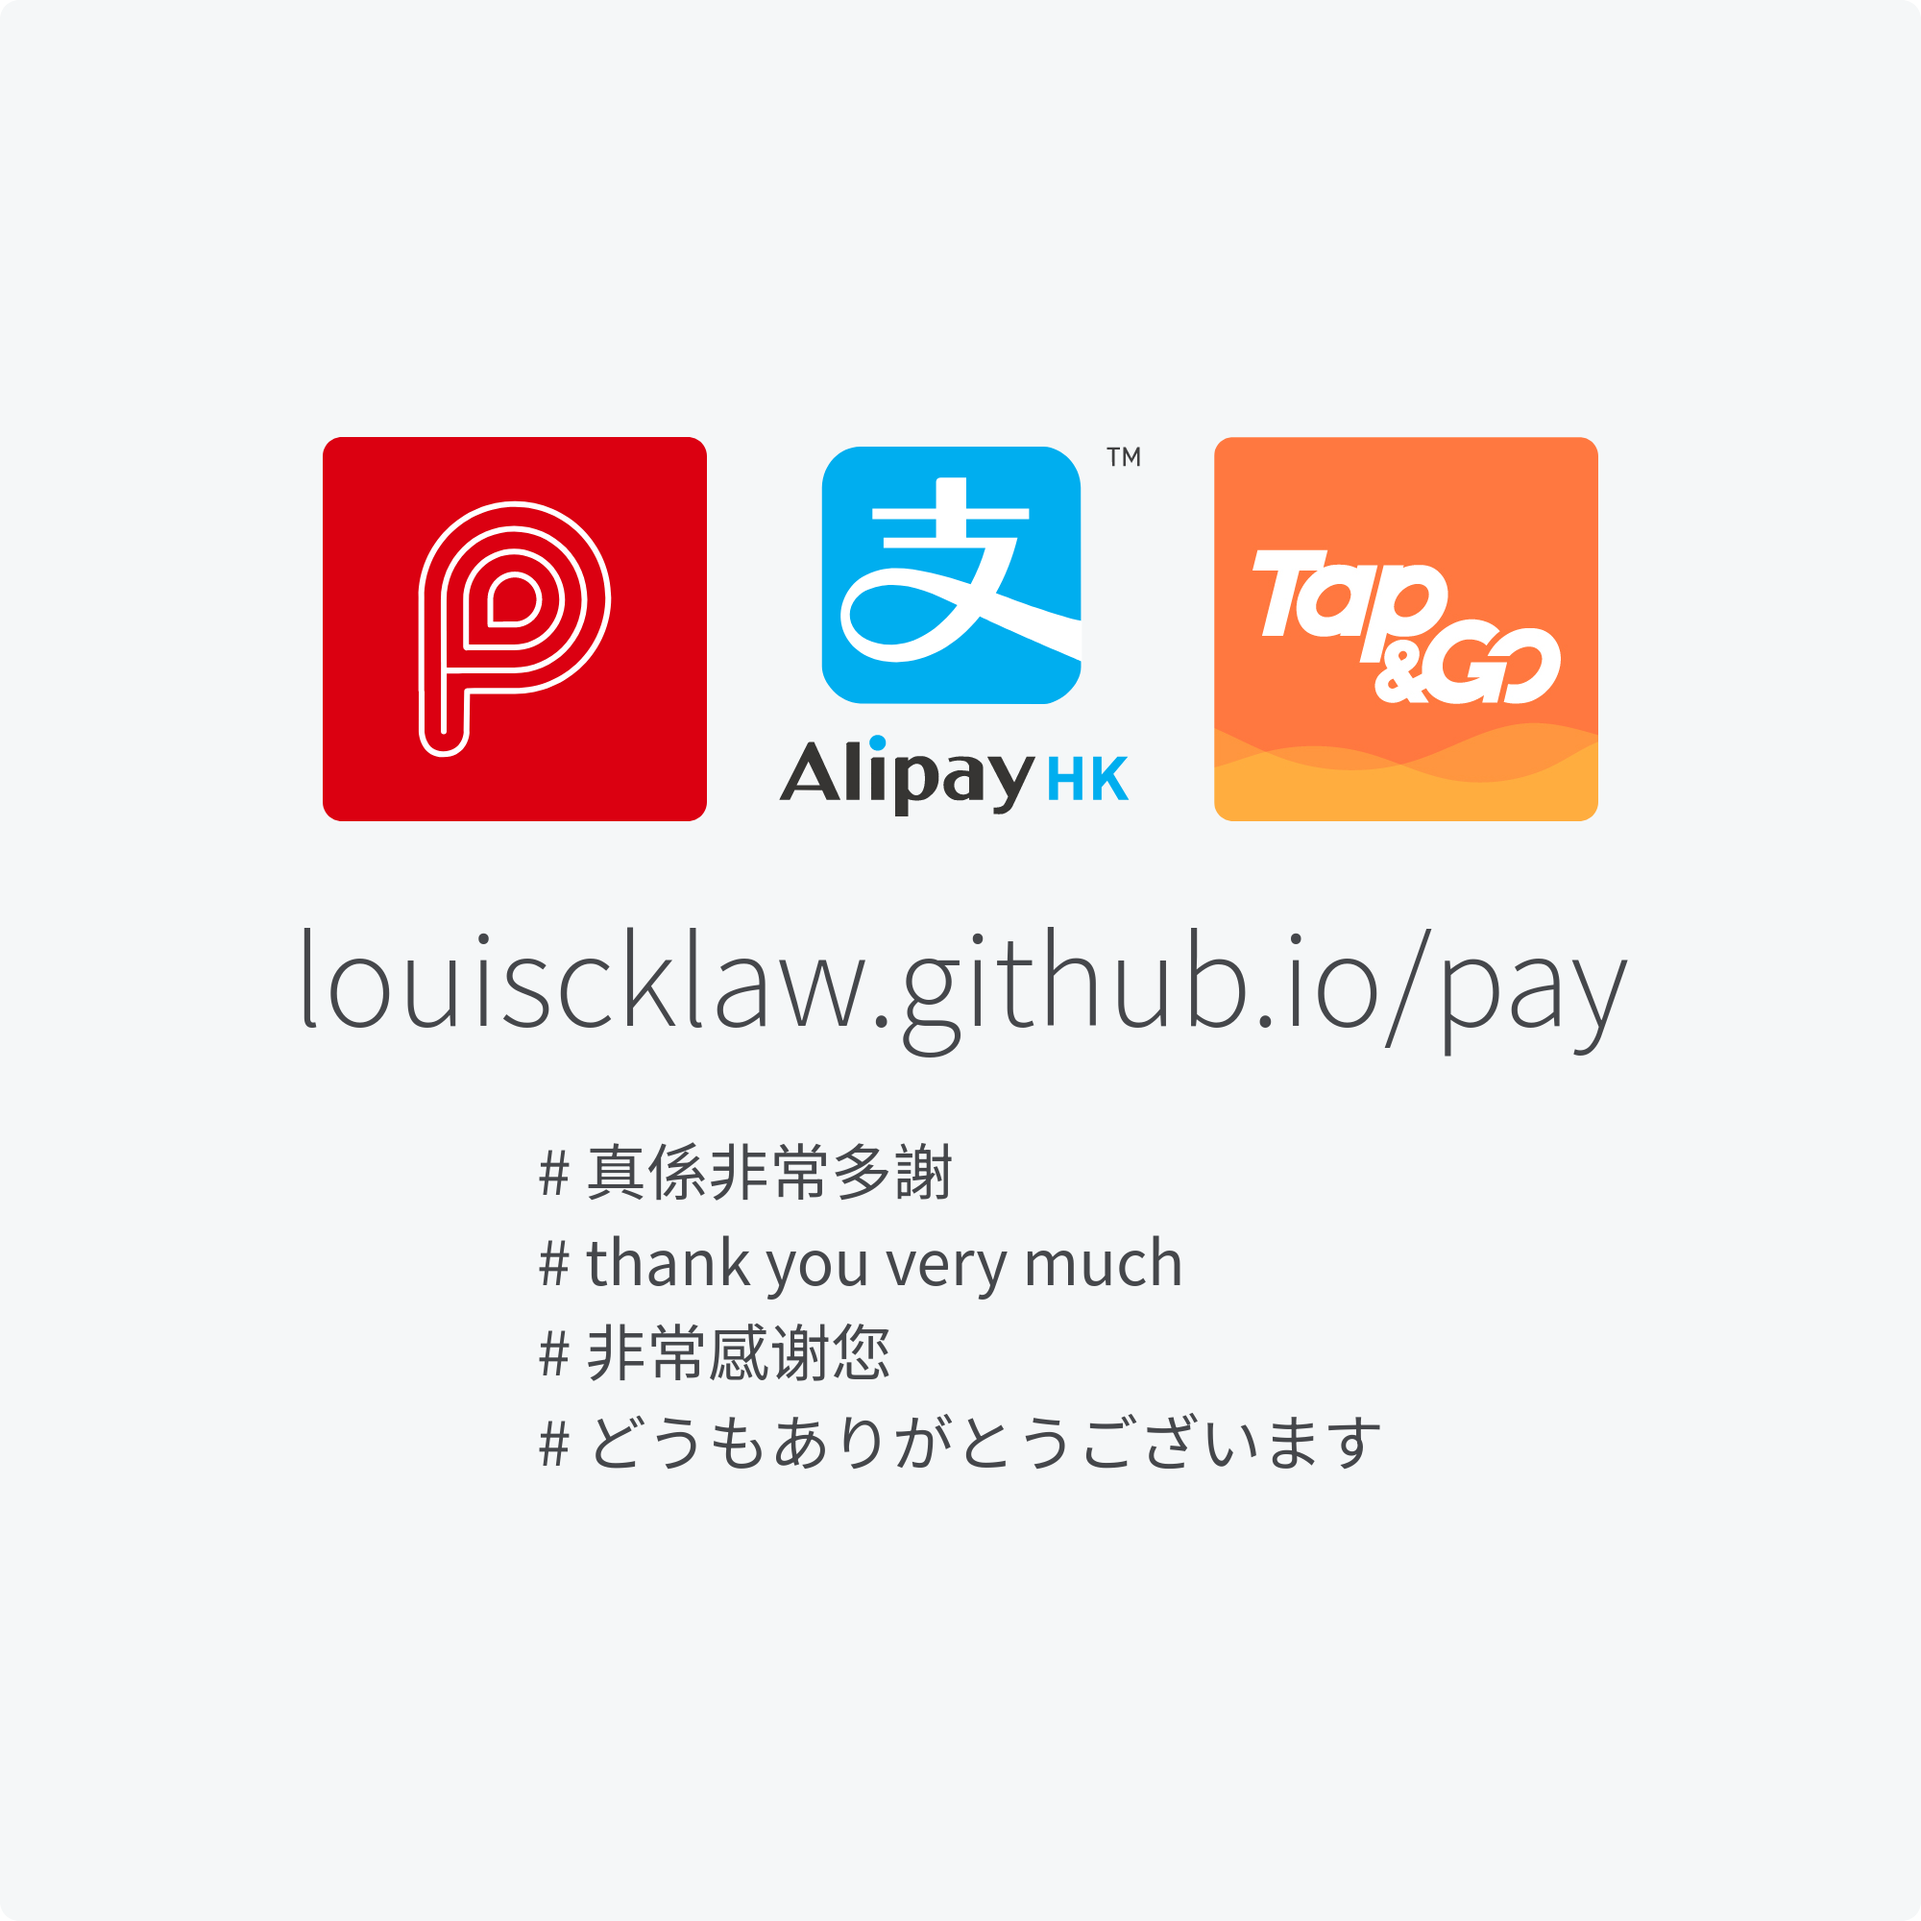
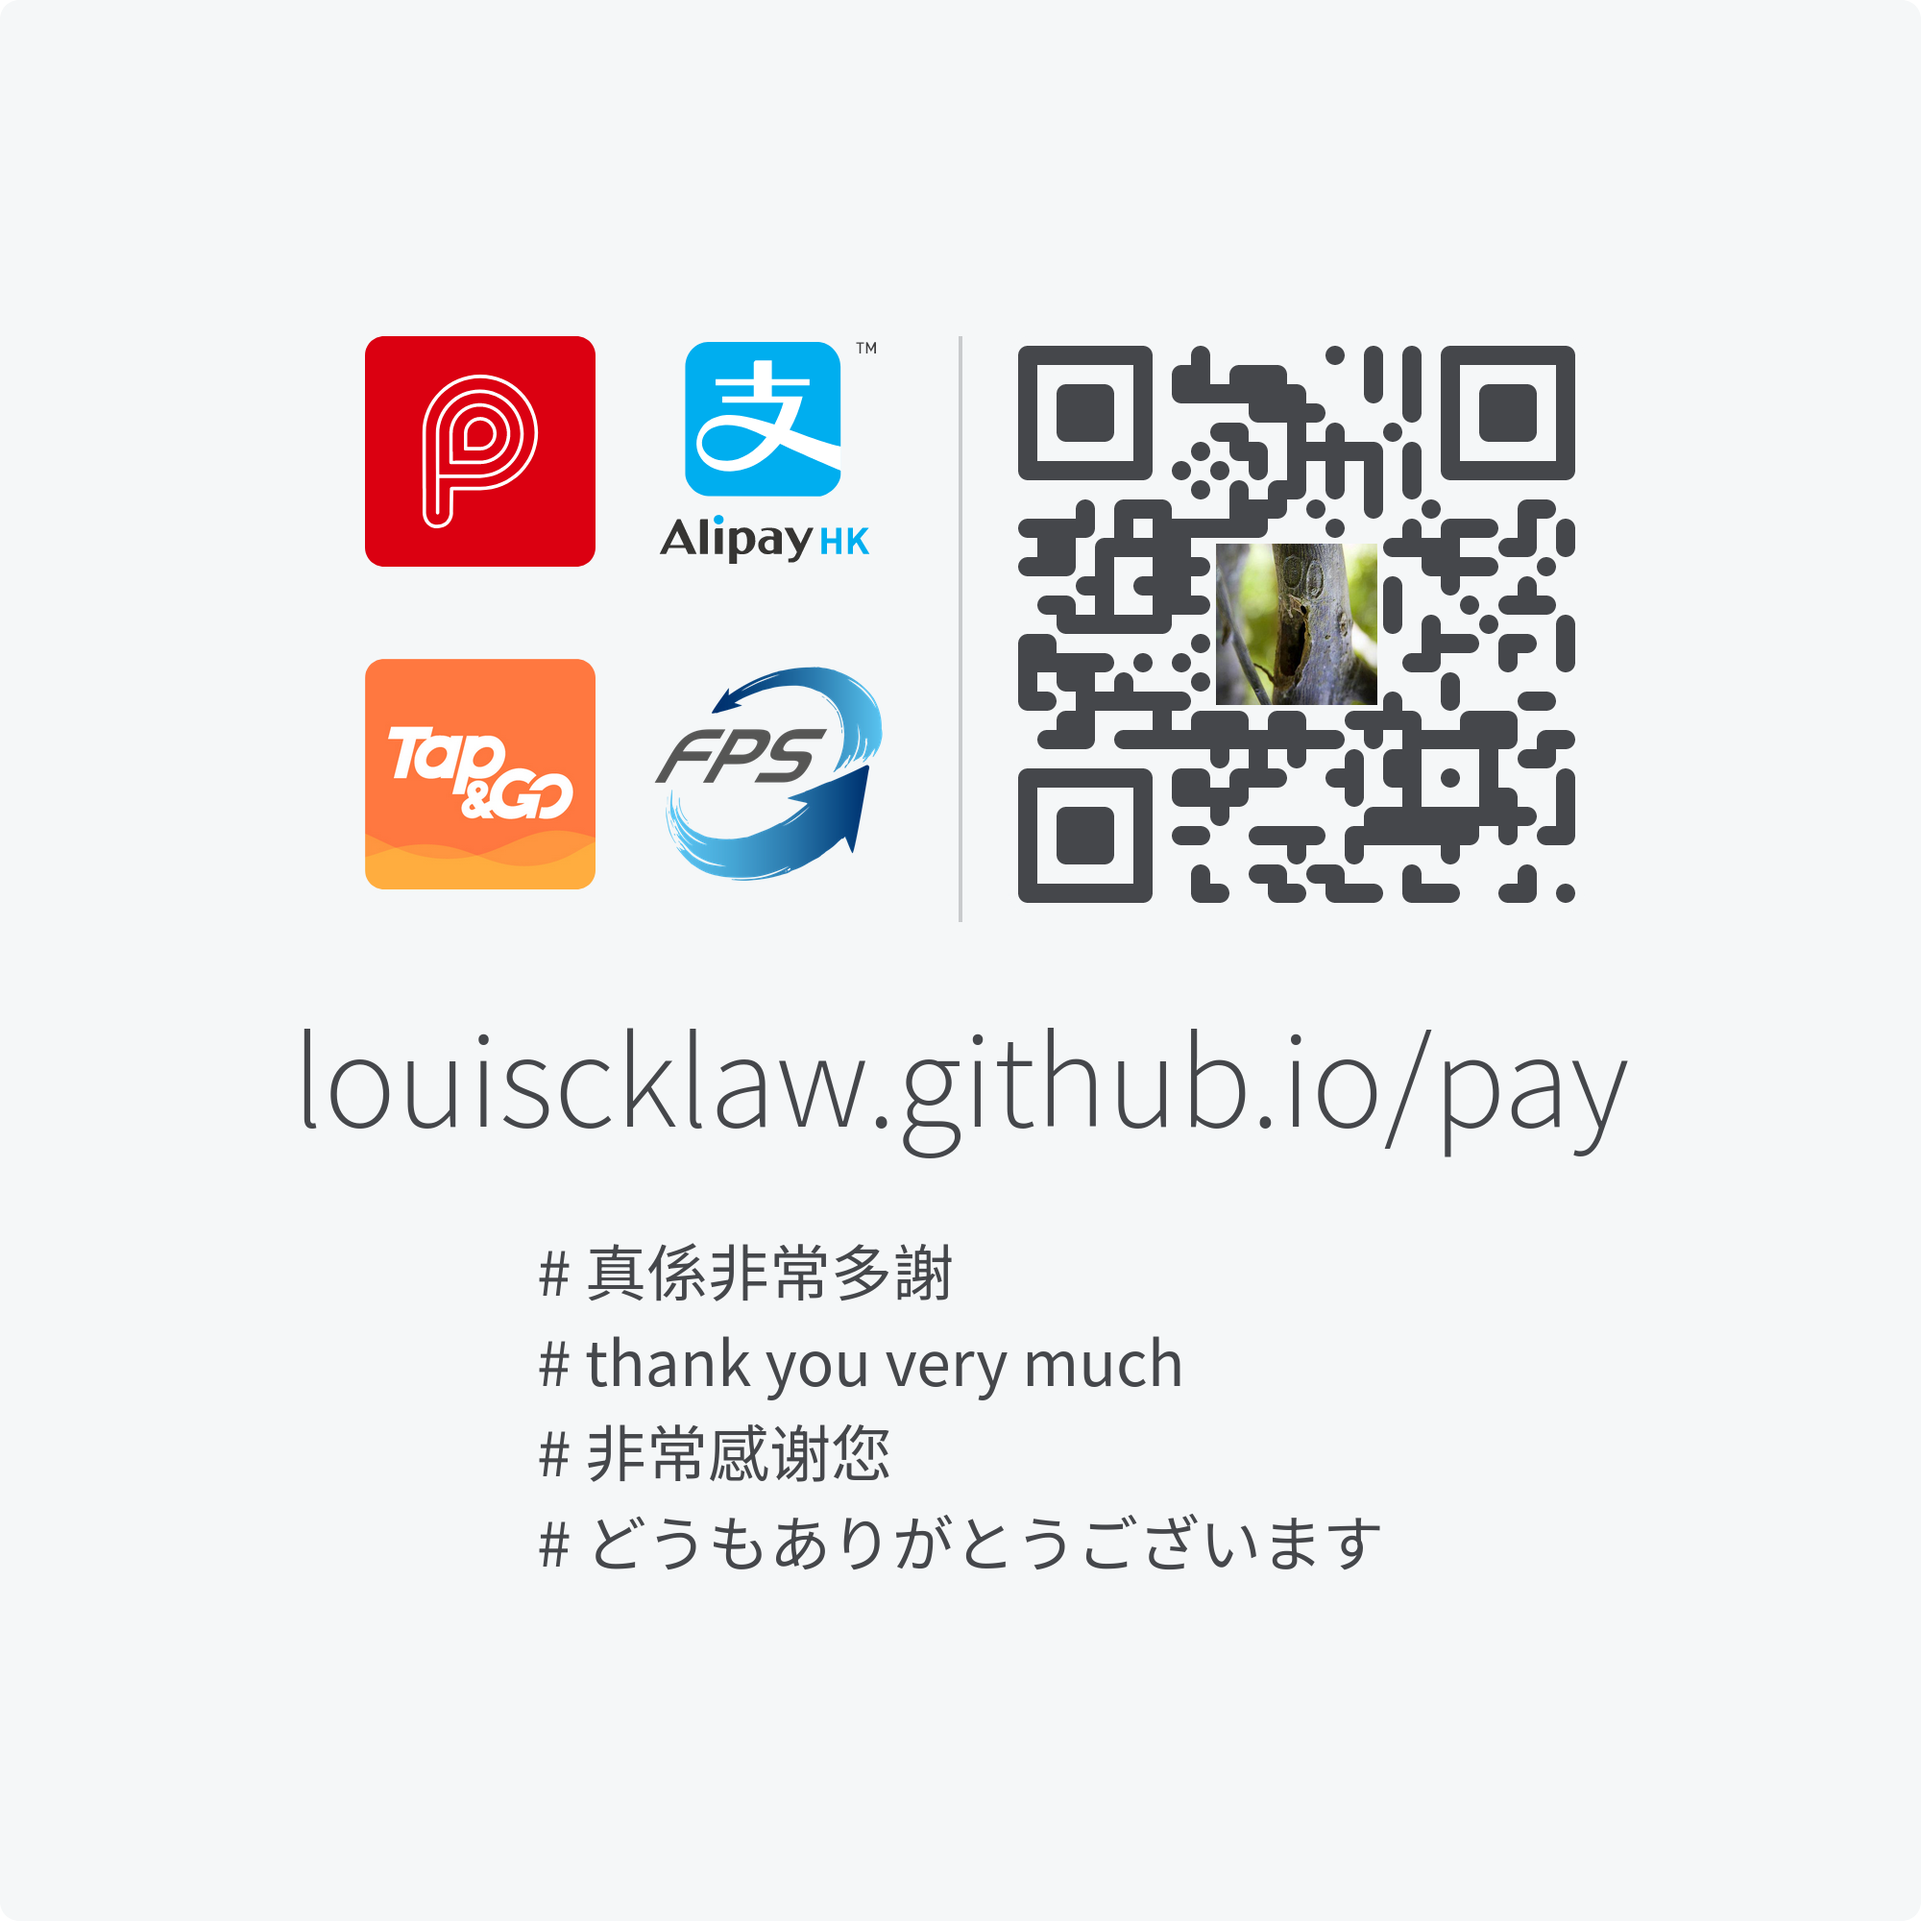
update,

Changed region(s): [[0.155, 0.155, 0.837, 0.62], [0.279, 0.651, 0.713, 0.837]]

diff --git a/src/social-image/pay/index.html b/src/social-image/pay/index.html
@@ -9,6 +9,7 @@
       href="https://fonts.googleapis.com/css2?family=Noto+Sans+TC:wght@100;200;300;400;500;700;900&display=swap"
       rel="stylesheet"
     />
+    <script type="text/javascript" src="https://unpkg.com/qr-code-styling@1.5.0/lib/qr-code-styling.js"></script>
     <title>Document</title>
 
     <style>
@@ -28,38 +29,73 @@
   <body>
     <div style="width: 1000px; height: 1000px; background-color: #f5f7f8">
       <div style="display: flex; flex-direction: column; justify-content: center; align-items: center; height: 100%">
-        <div style="display: flex; flex-direction: row; justify-content: center; gap: 2rem">
-          <div
-            style="
-              height: 200px;
-              width: 200px;
-              background-size: cover;
-              background-position: center;
-              background-repeat: no-repeat;
-              background-image: url('./payme.svg');
-            "
-          ></div>
-          <div
-            style="
-              height: 200px;
-              width: 200px;
-              background-size: contain;
-              background-position: center;
-              background-repeat: no-repeat;
-              background-image: url('./Alipay-HK.svg');
-            "
-          ></div>
-          <div
-            style="
-              height: 200px;
-              width: 200px;
-              background-size: contain;
-              background-position: center;
-              background-repeat: no-repeat;
-              background-image: url('./tap_n_go.jpg');
-            "
-          ></div
-        ></div>
+        <div style="display: flex; flex-direction: row">
+          <div>
+            <div
+              style="
+                display: flex;
+                flex-direction: row;
+                justify-content: space-around;
+                align-items: center;
+                row-gap: 3rem;
+                flex-wrap: wrap;
+                width: 300px;
+              "
+            >
+              <div
+                style="
+                  height: 120px;
+                  width: 120px;
+                  background-size: cover;
+                  background-position: center;
+                  background-repeat: no-repeat;
+                  background-image: url('./payme.svg');
+                "
+              ></div>
+              <div
+                style="
+                  height: 120px;
+                  width: 120px;
+                  background-size: contain;
+                  background-position: center;
+                  background-repeat: no-repeat;
+                  background-image: url('./Alipay-HK.svg');
+                "
+              ></div>
+              <div
+                style="
+                  height: 120px;
+                  width: 120px;
+                  background-size: contain;
+                  background-position: center;
+                  background-repeat: no-repeat;
+                  background-image: url('./tap_n_go.jpg');
+                "
+              ></div>
+              <div
+                style="
+                  height: 120px;
+                  width: 120px;
+                  background-size: contain;
+                  background-position: center;
+                  background-repeat: no-repeat;
+                  background-image: url('./fps.png');
+                "
+              ></div>
+            </div>
+          </div>
+          <div>
+            <div
+              id="canvas"
+              style="
+                border-radius: 0px;
+                border-left: 2px solid rgba(69, 71, 75, 0.25);
+                padding-left: 1.5rem;
+                margin-left: 1.5rem;
+              "
+            ></div>
+          </div>
+        </div>
         <div
           style="
             margin-top: 2rem;
@@ -80,5 +116,23 @@
         </div>
       </div>
     </div>
+
+    <script>
+      window.addEventListener('DOMContentLoaded', () => {
+        console.log('window.location', window.location);
+        const qrCode = new QRCodeStyling({
+          width: 300,
+          height: 300,
+          type: 'svg',
+          data: 'https://louiscklaw.github.io/pay',
+          image: 'https://avatars.githubusercontent.com/u/1376093?v=4',
+          dotsOptions: { color: '#45474B', type: 'rounded' },
+          backgroundOptions: { color: '#F5F7F8' },
+          imageOptions: { crossOrigin: 'anonymous', margin: 3 },
+        });
+
+        qrCode.append(document.getElementById('canvas'));
+      });
+    </script>
   </body>
 </html>
